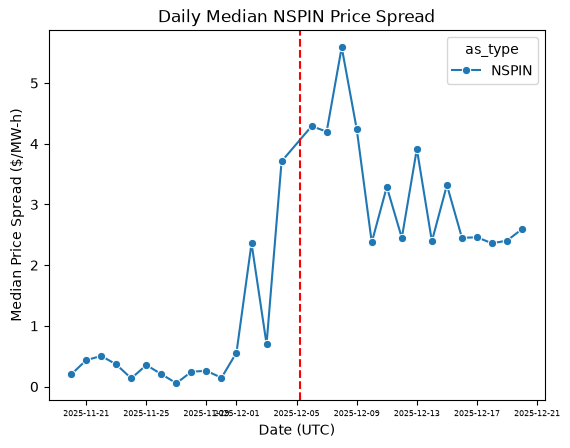
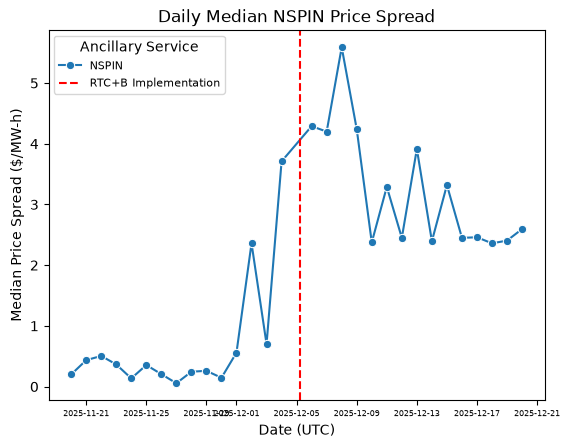
Built site for gh-pages

Changed region(s): [[0.0895, 0.0625, 0.3877, 0.2188], [0.8053, 0.0938, 0.9544, 0.1875]]

diff --git a/projects/ercot_analysis.html b/projects/ercot_analysis.html
@@ -159,7 +159,7 @@ pre > code.sourceCode > span > a:first-child::before { text-decoration: underlin
 
 
 
-<div id="82eef3d7" class="cell" data-execution_count="1">
+<div id="82eef3d7" class="cell">
 <div class="code-copy-outer-scaffold"><div class="sourceCode cell-code" id="cb1"><pre class="sourceCode python code-with-copy"><code class="sourceCode python"><span id="cb1-1"><a href="#cb1-1" aria-hidden="true" tabindex="-1"></a><span class="im">import</span> pandas <span class="im">as</span> pd</span>
 <span id="cb1-2"><a href="#cb1-2" aria-hidden="true" tabindex="-1"></a><span class="im">import</span> numpy <span class="im">as</span> np</span>
 <span id="cb1-3"><a href="#cb1-3" aria-hidden="true" tabindex="-1"></a><span class="im">import</span> seaborn <span class="im">as</span> sns</span>
@@ -214,8 +214,8 @@ pre > code.sourceCode > span > a:first-child::before { text-decoration: underlin
 <span id="cb1-52"><a href="#cb1-52" aria-hidden="true" tabindex="-1"></a>    .agg(median_spread<span class="op">=</span>(<span class="st">"spread"</span>, <span class="st">"median"</span>))</span>
 <span id="cb1-53"><a href="#cb1-53" aria-hidden="true" tabindex="-1"></a>)</span>
 <span id="cb1-54"><a href="#cb1-54" aria-hidden="true" tabindex="-1"></a></span>
-<span id="cb1-55"><a href="#cb1-55" aria-hidden="true" tabindex="-1"></a>nspin_analysis <span class="op">=</span> <span class="st">"NSPIN experienced the most noticeable change in price spreads following the implementation of RTC+B on December 5, 2025. Before implementation, the median of the daily median spreads was approximately $0.36, compared to $2.60 afterward. During the pre-RTC+B period, spreads generally remained relatively low, with occasional increases, particularly around December 2. Following implementation, spreads increased substantially and remained consistently elevated throughout the observed period. The highest daily median spread after implementation occurred on December 8, reaching approximately $5.59. Although spreads gradually declined afterward, they remained higher than most of the pre-implementation observations. This suggests that NSPIN became more expensive relative to the lowest-priced ancillary service following RTC+B, although other market factors could also have contributed to the change."</span></span>
-<span id="cb1-56"><a href="#cb1-56" aria-hidden="true" tabindex="-1"></a>rrs_analysis <span class="op">=</span> <span class="st">"RRS demonstrated a less consistent change following RTC+B implementation. Before implementation, the median of its daily median spreads was approximately $0.06, increasing to around $0.23 afterward. Unlike NSPIN, RRS experienced several periods of very low or zero spreads both before and after RTC+B. Before implementation, there was a noticeable increase around December 2, followed by a larger spike on December 4, although the latter represents only a partial UTC day. After implementation, the largest daily median spread occurred on December 6 at approximately $1.54, with additional smaller increases throughout the period. Overall, RRS showed a modest increase in its typical daily spread, but the continued fluctuations suggest that the impact on its relative pricing was less pronounced than for NSPIN."</span></span>
+<span id="cb1-55"><a href="#cb1-55" aria-hidden="true" tabindex="-1"></a>nspin_analysis <span class="op">=</span> <span class="st">"NSPIN experienced the most noticeable change in price spreads following the implementation of RTC+B on December 5, 2025. Before implementation, the median of the daily median spreads was around $0.36, compared to $2.60 afterward. During the pre-RTC+B period, spreads generally remained relatively low, with occasional increases, particularly around December 2. Following implementation, spreads increased substantially and remained consistently elevated throughout the year. The highest daily median spread after implementation occurred on December 8, reaching around $5.59. Although spreads gradually declined afterward, they remained higher than most of the pre-implementation observations. This suggests that NSPIN became more expensive relative to the lowest-priced ancillary service following RTC+B."</span></span>
+<span id="cb1-56"><a href="#cb1-56" aria-hidden="true" tabindex="-1"></a>rrs_analysis <span class="op">=</span> <span class="st">"RRS demonstrated a less consistent change following RTC+B implementation. Before implementation, the median of its daily median spreads was around $0.06, increasing to around $0.23 afterward. Unlike NSPIN, RRS experienced several periods of very low or zero spreads both before and after RTC+B. Before implementation, there was a noticeable increase around December 2, followed by a larger spike on December 4, although the latter represents only a partial UTC day. After implementation, the largest daily median spread occurred on December 6 at around $1.54, with additional smaller increases throughout the period. Overall, RRS showed a small increase in its typical daily spread, but the ongoing fluctuations suggest that the impact on its relative pricing was less pronounced than for NSPIN."</span></span>
 <span id="cb1-57"><a href="#cb1-57" aria-hidden="true" tabindex="-1"></a>ecrs_analysis <span class="op">=</span> <span class="st">"ECRS also experienced a change in its price spreads following RTC+B, although the increase was considerably smaller than that observed for NSPIN. Before implementation, the median of its daily median spreads was $0.00, indicating that ECRS was frequently the lowest-priced ancillary service during the observed hours. Following implementation, this increased to approximately $0.14. ECRS spreads became more consistently positive after RTC+B, with noticeable increases on December 11, 15, and 19. Despite these increases, ECRS generally maintained relatively low price differences compared with NSPIN. This suggests that ECRS prices moved somewhat farther from the lowest ancillary service price after implementation, but the overall change remained relatively limited."</span></span>
 <span id="cb1-58"><a href="#cb1-58" aria-hidden="true" tabindex="-1"></a></span>
 <span id="cb1-59"><a href="#cb1-59" aria-hidden="true" tabindex="-1"></a>ancillary_type <span class="op">=</span> [</span>
@@ -242,23 +242,28 @@ pre > code.sourceCode > span > a:first-child::before { text-decoration: underlin
 <span id="cb1-80"><a href="#cb1-80" aria-hidden="true" tabindex="-1"></a>    )</span>
 <span id="cb1-81"><a href="#cb1-81" aria-hidden="true" tabindex="-1"></a></span>
 <span id="cb1-82"><a href="#cb1-82" aria-hidden="true" tabindex="-1"></a>    ax.tick_params(axis<span class="op">=</span><span class="st">"x"</span>, labelsize<span class="op">=</span><span class="dv">6</span>)</span>
-<span id="cb1-83"><a href="#cb1-83" aria-hidden="true" tabindex="-1"></a></span>
-<span id="cb1-84"><a href="#cb1-84" aria-hidden="true" tabindex="-1"></a>    ax.<span class="bu">set</span>(</span>
-<span id="cb1-85"><a href="#cb1-85" aria-hidden="true" tabindex="-1"></a>        title<span class="op">=</span><span class="st">"Daily Median NSPIN Price Spread"</span>,</span>
-<span id="cb1-86"><a href="#cb1-86" aria-hidden="true" tabindex="-1"></a>        xlabel<span class="op">=</span><span class="st">"Date (UTC)"</span>,</span>
-<span id="cb1-87"><a href="#cb1-87" aria-hidden="true" tabindex="-1"></a>        ylabel<span class="op">=</span><span class="st">"Median Price Spread ($/MW-h)"</span>,</span>
-<span id="cb1-88"><a href="#cb1-88" aria-hidden="true" tabindex="-1"></a>    )</span>
-<span id="cb1-89"><a href="#cb1-89" aria-hidden="true" tabindex="-1"></a></span>
-<span id="cb1-90"><a href="#cb1-90" aria-hidden="true" tabindex="-1"></a><span class="cf">for</span> data, name, analysis <span class="kw">in</span> ancillary_type:</span>
-<span id="cb1-91"><a href="#cb1-91" aria-hidden="true" tabindex="-1"></a>    fig <span class="op">=</span> plt.figure()</span>
-<span id="cb1-92"><a href="#cb1-92" aria-hidden="true" tabindex="-1"></a></span>
-<span id="cb1-93"><a href="#cb1-93" aria-hidden="true" tabindex="-1"></a>    make_graph(name, data)</span>
-<span id="cb1-94"><a href="#cb1-94" aria-hidden="true" tabindex="-1"></a>    plt.gca().set_title(<span class="ss">f"Daily Median </span><span class="sc">{</span>name<span class="sc">.</span>upper()<span class="sc">}</span><span class="ss"> Price Spread"</span>)</span>
-<span id="cb1-95"><a href="#cb1-95" aria-hidden="true" tabindex="-1"></a></span>
-<span id="cb1-96"><a href="#cb1-96" aria-hidden="true" tabindex="-1"></a>    display(fig)</span>
-<span id="cb1-97"><a href="#cb1-97" aria-hidden="true" tabindex="-1"></a>    plt.close(fig)</span>
-<span id="cb1-98"><a href="#cb1-98" aria-hidden="true" tabindex="-1"></a>    </span>
-<span id="cb1-99"><a href="#cb1-99" aria-hidden="true" tabindex="-1"></a>    display(Markdown(analysis))</span></code></pre></div><button title="Copy to Clipboard" class="code-copy-button"><i class="bi"></i></button></div>
+<span id="cb1-83"><a href="#cb1-83" aria-hidden="true" tabindex="-1"></a>    ax.legend(title<span class="op">=</span><span class="st">"Ancillary Service"</span>,</span>
+<span id="cb1-84"><a href="#cb1-84" aria-hidden="true" tabindex="-1"></a>    loc<span class="op">=</span><span class="st">"upper left"</span>,</span>
+<span id="cb1-85"><a href="#cb1-85" aria-hidden="true" tabindex="-1"></a>    fontsize<span class="op">=</span><span class="dv">8</span>,</span>
+<span id="cb1-86"><a href="#cb1-86" aria-hidden="true" tabindex="-1"></a>    title_fontsize<span class="op">=</span><span class="dv">10</span></span>
+<span id="cb1-87"><a href="#cb1-87" aria-hidden="true" tabindex="-1"></a>    )</span>
+<span id="cb1-88"><a href="#cb1-88" aria-hidden="true" tabindex="-1"></a></span>
+<span id="cb1-89"><a href="#cb1-89" aria-hidden="true" tabindex="-1"></a>    ax.<span class="bu">set</span>(</span>
+<span id="cb1-90"><a href="#cb1-90" aria-hidden="true" tabindex="-1"></a>        title<span class="op">=</span><span class="st">"Daily Median NSPIN Price Spread"</span>,</span>
+<span id="cb1-91"><a href="#cb1-91" aria-hidden="true" tabindex="-1"></a>        xlabel<span class="op">=</span><span class="st">"Date (UTC)"</span>,</span>
+<span id="cb1-92"><a href="#cb1-92" aria-hidden="true" tabindex="-1"></a>        ylabel<span class="op">=</span><span class="st">"Median Price Spread ($/MW-h)"</span>,</span>
+<span id="cb1-93"><a href="#cb1-93" aria-hidden="true" tabindex="-1"></a>    )</span>
+<span id="cb1-94"><a href="#cb1-94" aria-hidden="true" tabindex="-1"></a></span>
+<span id="cb1-95"><a href="#cb1-95" aria-hidden="true" tabindex="-1"></a><span class="cf">for</span> data, name, analysis <span class="kw">in</span> ancillary_type:</span>
+<span id="cb1-96"><a href="#cb1-96" aria-hidden="true" tabindex="-1"></a>    fig <span class="op">=</span> plt.figure()</span>
+<span id="cb1-97"><a href="#cb1-97" aria-hidden="true" tabindex="-1"></a></span>
+<span id="cb1-98"><a href="#cb1-98" aria-hidden="true" tabindex="-1"></a>    make_graph(name, data)</span>
+<span id="cb1-99"><a href="#cb1-99" aria-hidden="true" tabindex="-1"></a>    plt.gca().set_title(<span class="ss">f"Daily Median </span><span class="sc">{</span>name<span class="sc">.</span>upper()<span class="sc">}</span><span class="ss"> Price Spread"</span>)</span>
+<span id="cb1-100"><a href="#cb1-100" aria-hidden="true" tabindex="-1"></a></span>
+<span id="cb1-101"><a href="#cb1-101" aria-hidden="true" tabindex="-1"></a>    display(fig)</span>
+<span id="cb1-102"><a href="#cb1-102" aria-hidden="true" tabindex="-1"></a>    plt.close(fig)</span>
+<span id="cb1-103"><a href="#cb1-103" aria-hidden="true" tabindex="-1"></a>    </span>
+<span id="cb1-104"><a href="#cb1-104" aria-hidden="true" tabindex="-1"></a>    display(Markdown(analysis))</span></code></pre></div><button title="Copy to Clipboard" class="code-copy-button"><i class="bi"></i></button></div>
 <div class="cell-output cell-output-display">
 <div>
 <figure class="figure">
